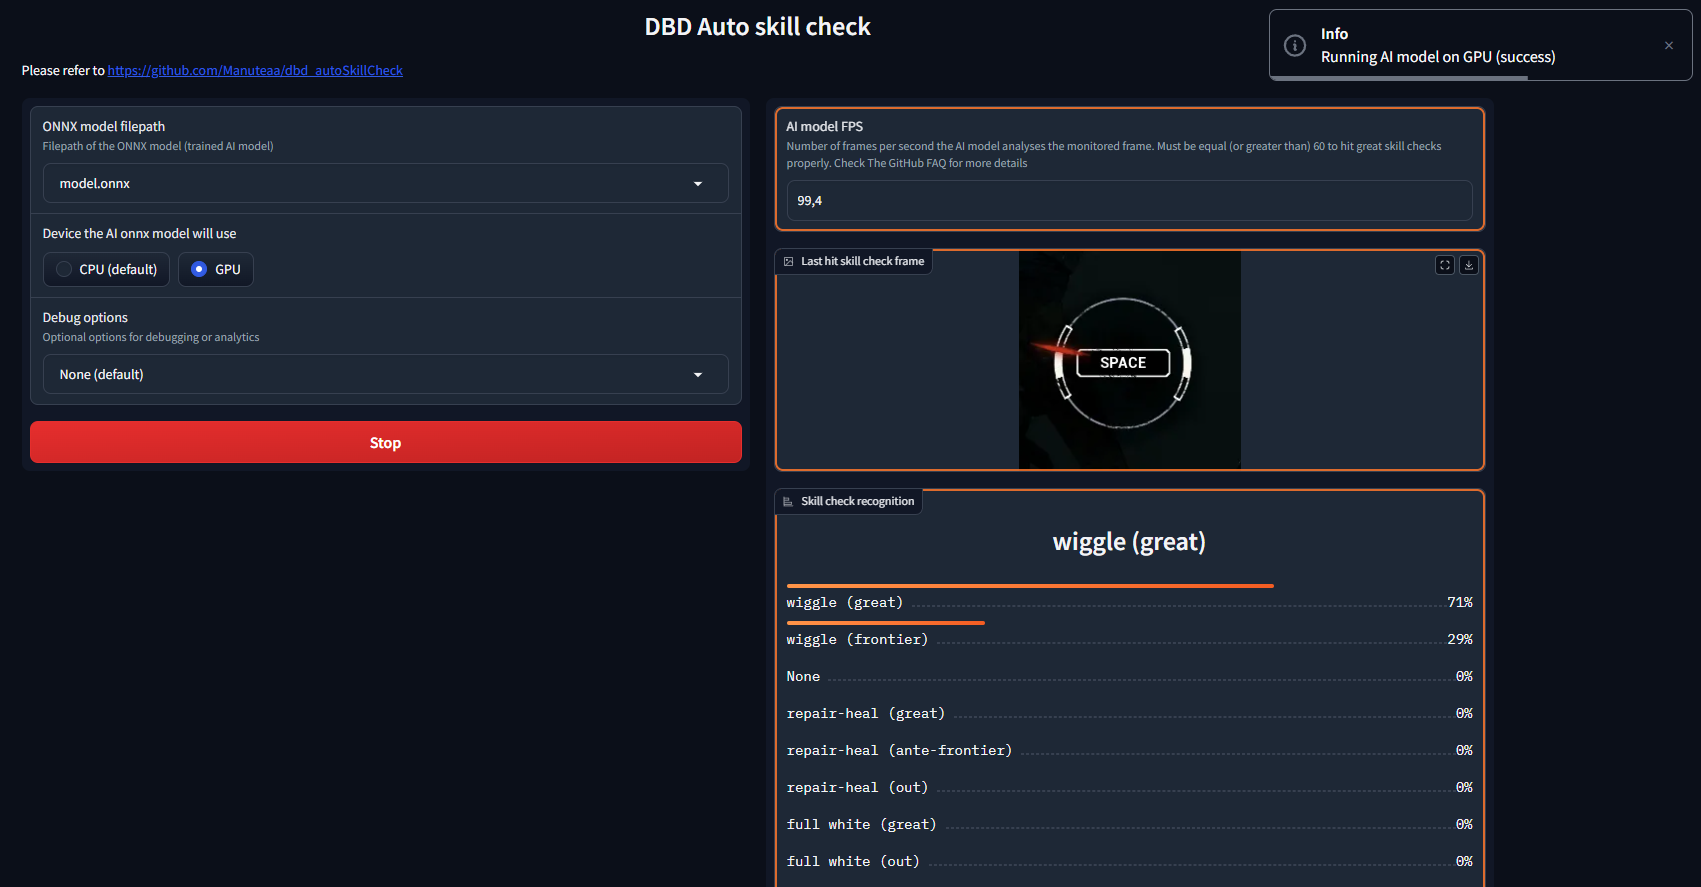
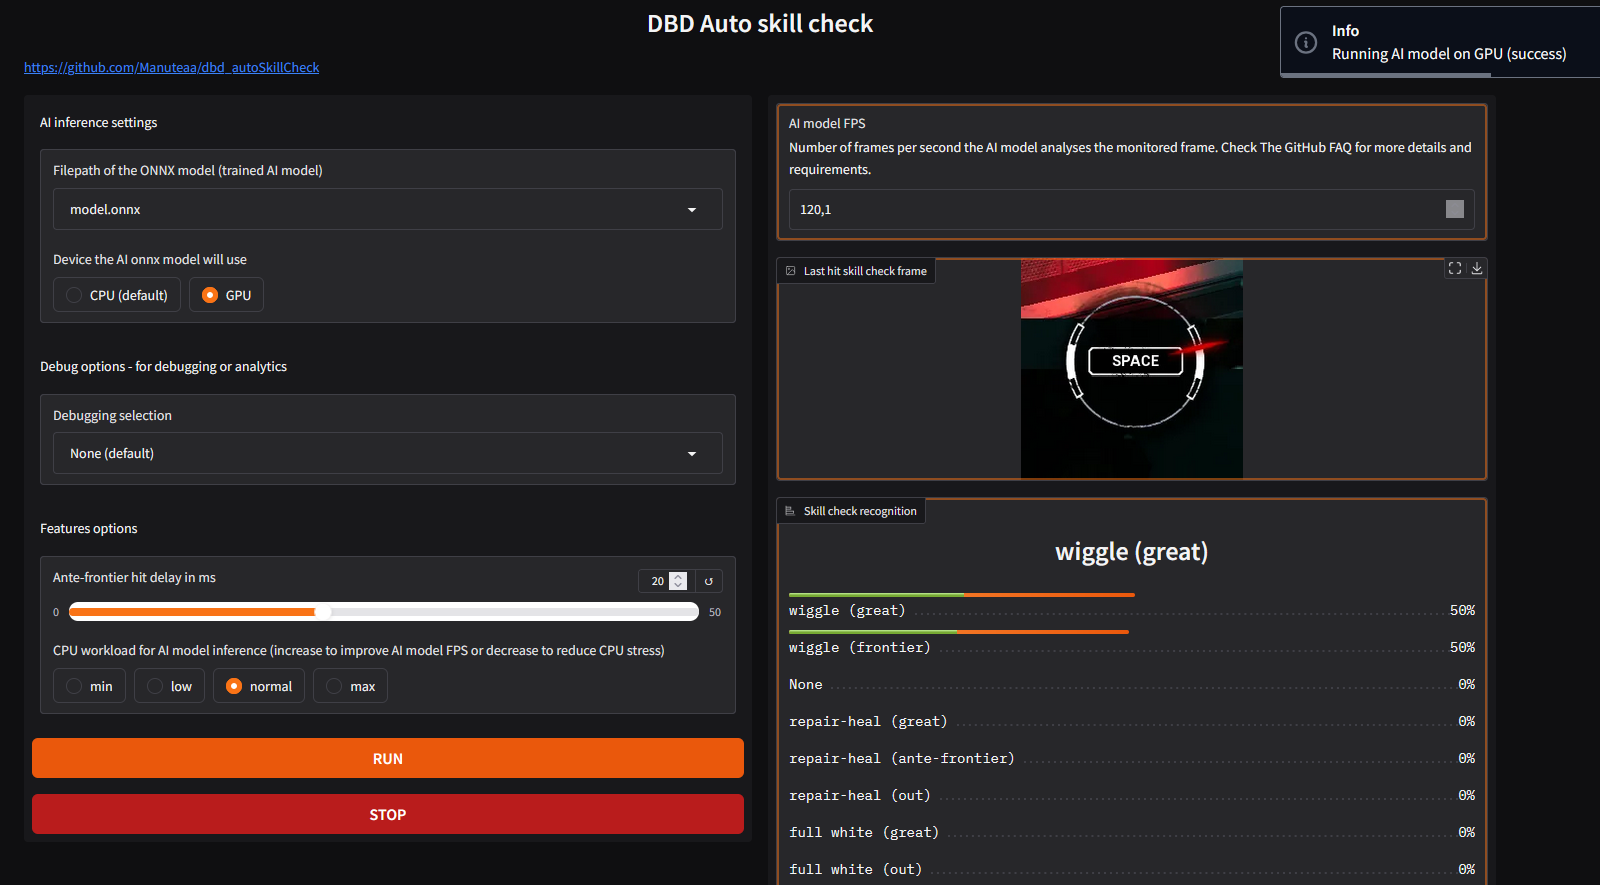
update README and images

diff --git a/README.md b/README.md
@@ -15,8 +15,7 @@ This tool is designed to improve gameplay performance and enhance the player's s
 * [Execution Instructions](#execution-instructions)
   * [Windows standalone app](#windows-standalone-app)
   * [Build from source](#build-from-source)
-    * [Single prediction Web UI](#single-prediction-web-ui)
-    * [Auto skill check Web UI](#auto-skill-check-web-ui)
+  * [Auto skill-check Web UI](#auto-skill-check-web-ui)
 * [Project details](#project-details)
   * [What is a skill check](#what-is-a-skill-check)
   * [Dataset](#dataset)
@@ -46,47 +45,33 @@ You can run the code:
 
 Use the standalone app if you don't want to install anything, but just run the AI script.
 
-Go to the releases page for instructions: https://github.com/Manuteaa/dbd_autoSkillCheck/releases
+Go to the [releases page](https://github.com/Manuteaa/dbd_autoSkillCheck/releases) for instructions, then learn how to use the script in the [Auto skill-check Web UI instructions](#auto-skill-check-web-ui).
 
 ## Build from source
 
-I have only tested the model on my own computer running Windows 11 with CUDA version 12.3. I provide two different scripts you can run, here the instructions.
+I have only tested the model on my own computer running Windows 11 with CUDA version 12.3. I provide two different scripts you can run.
 
 Create your own python env (I have python 3.11) and install the necessary libraries using the command :
 
 `pip install numpy mss onnxruntime-gpu pyautogui IPython pillow gradio`
 
-Then git clone the repo.
+Then git clone the repo and follow the [Auto skill-check Web UI instructions](#auto-skill-check-web-ui).
 
-### Single prediction Web UI
-
-Run this script to test the AI model with images of the game.
-
-`python run_single_pred_gradio.py`
-
-1) Select the trained AI model (default to `model.onnx` available in this repo)
-2) Upload your image
-3) Click Submit
-4) On the right, it displays the sorted probabilities of the skill check recognition
-
-| SINGLE prediction example 1                    | SINGLE prediction example 2                    |
-|------------------------------------------------|------------------------------------------------|
-| ![](images/single_pred_1.png "Example repair") | ![](images/single_pred_2.png "Example wiggle") |
-
-### Auto skill check Web UI
+## Auto skill-check Web UI
 
 Run this script and play the game ! It will hit the space bar for you.
 
-`python run_monitoring_gradio.py`
+- When building from source: `python run_monitoring_gradio.py`
+- When using the standalone app: run `run_monitoring_gradio.exe`
 
-1) Select the trained AI model (default to `model.onnx` available in this repo)
-2) Select the device to use. Select "CPU", except if you need to improve the AI model FPS [FAQ](#faq)
-3) Choose debug options. I recommend setting this option to None. If you want to check which screen the script is monitoring, you can select the first option. If the AI struggles recognizing the skill checks, select the second option to save the results, then you can upload the images in a new GitHub issue
-4) Keep the default values for the next options. These options are mainly requested features by the community.
+1) Select the trained AI model (default to `model.onnx` available in this repo, and included within the standalone app)
+2) Select the device to use. Use default CPU device. GPU is not available with the standalone app. With python, follow the [FAQ](#faq) instructions if you want to use  GPU
+3) Choose debug options. If you want to check which screen the script is monitoring, you can select the first option. If the AI struggles recognizing the skill checks, select the second option to save the results, then you can upload the images in a new GitHub issue
+4) Select additional features options. Keep the default values unless you have read the [FAQ](#faq) and know what you are doing
 5) Click 'RUN'
 6) You can STOP and RUN the script from the Web UI at will, for example when waiting in the game lobby
 
-Your main screen is now monitored meaning that frames are regularly sampled (with a center-crop) and analysed with the trained AI model.
+Your main screen is now monitored meaning that frames are regularly sampled (with a center-crop) and analysed locally with the trained AI model.
 You can play the game on your main monitor.
 When a great skill check is detected, the SPACE key is automatically pressed, then it waits for 0.5s to avoid triggering the same skill check multiple times in a row.
 
@@ -207,23 +192,25 @@ How to run the AI model with your GPU ?
 Why does the script do nothing ?
 - Check if the AI model monitors correctly your game: set the debug option of the webui to "display the monitored frame". Play the game and check if it displays correctly the skill check
 - Check if you have no error in the python console logs
-- Use standard game settings (I recommend using 1080p at 100% resolution without any game filters): your displayed images "last hit skill check frame" should be similar with the ones in my examples
+- Use standard game settings (I recommend using 1080p at 100% resolution without any game filters, no vsync, no FSR): your displayed images "last hit skill check frame" should be similar with the ones in my examples
 - Check if you do not use a potato instead of a computer
 
 Why do I hit good skill checks instead of great ? Be sure :
 - Your game FPS >= 60
 - The AI model FPS >= 60
 - Your ping is not too high (<= 60 should be fine)
-- Disable Vsync and FSR in the game settings
+- Use standard game settings (I recommend using 1080p at 100% resolution without any game filters, no vsync, no FSR)
+- In the `Features options` of the WebUI, decrease the `Ante-frontier hit delay` value
+
 
 I have lower values than 60 FPS for the AI model, what can I do ?
-- Uncheck the `Reduce CPU usage` AI option in the Web UI
+- In the `Features options` of the WebUI, increase the `CPU workload` option to `normal` or `max`
 - Switch device to gpu
 - Disable the energy saver settings in your computer settings
 - Run the script in administrator mode
 
-Why does the AI model hit the skill check too early and fails ?
-- Uncheck the `Hit ante-frontier skill checks` hit option in the Web UI
+Why does the AI model hit the skill check too early and fail ?
+- In the `Features options` of the WebUI, increase the `Ante-frontier hit delay` value
 
 Does the script work well with the perk hyperfocus ?
 - Yes
@@ -233,7 +220,7 @@ Does the script work well for skill checks in random locations (doctor skill che
 
 What about the anti-cheat system ?
 - The script monitors a small crop of your main screen, and can press then release the space bar using [Windows MSDN](https://learn.microsoft.com/en-us/windows/win32/inputdev/virtual-key-codes?redirectedfrom=MSDN) once each 0.5s maximum. I don't know if this can be detected as a cheat
-- I played the game quite a lot with the script on, and never had any problem. However, I can't and will not generalize, so I can't really answer to this question...
+- I played the game quite a lot with the script on, and never had any problem so far...
 
 # Acknowledgments
 
